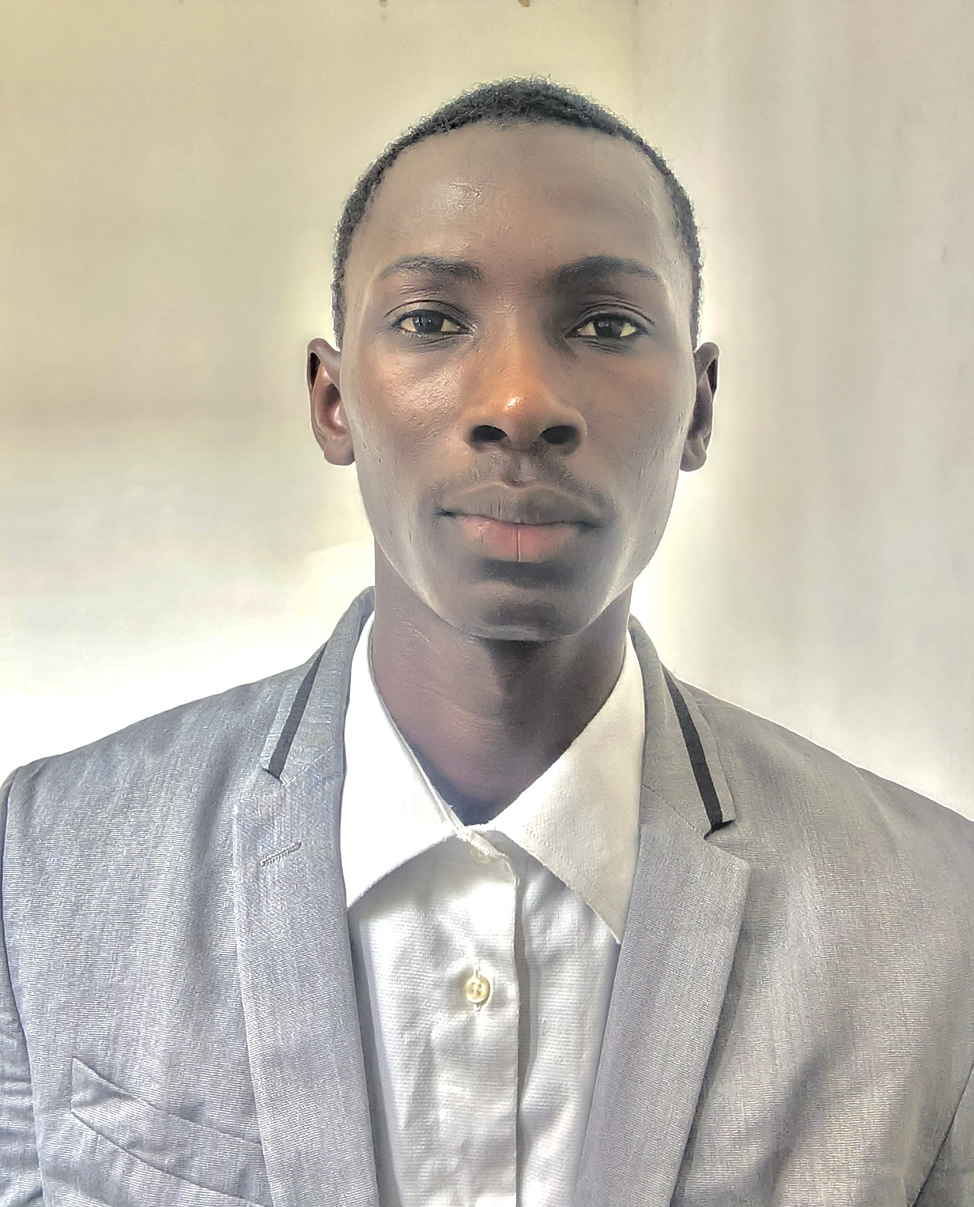
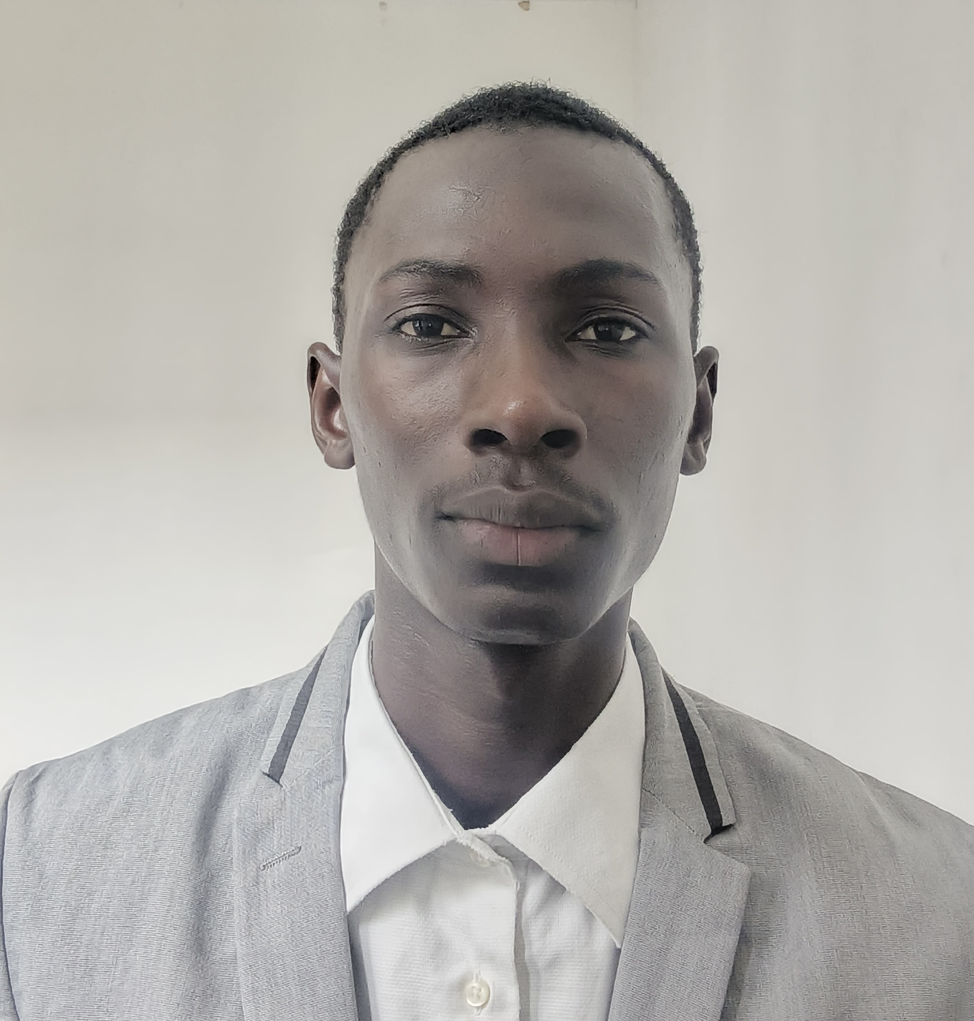
commit after adding my linear regression project ion my portfoilio

diff --git a/index.html b/index.html
@@ -56,7 +56,7 @@
                 <div class="typing-wrap">
                     <span class="typing-text" id="typingText"></span><span class="cursor">|</span>
                 </div>
-                <p class="hero-desc">Élève ingénieur en Télécommunications et Réseaux, en dernière année de
+                <p class="hero-desc">Élève ingénieur en Télécommunications et Réseaux, en dernière année du
                     cycle ingénieur (Bac+5), à la recherche d'un stage de fin d'études dans les domaines des 
                     réseaux, de l'intelligence artificielle et des systèmes numériques.</p>
                 <div class="hero-btns">
